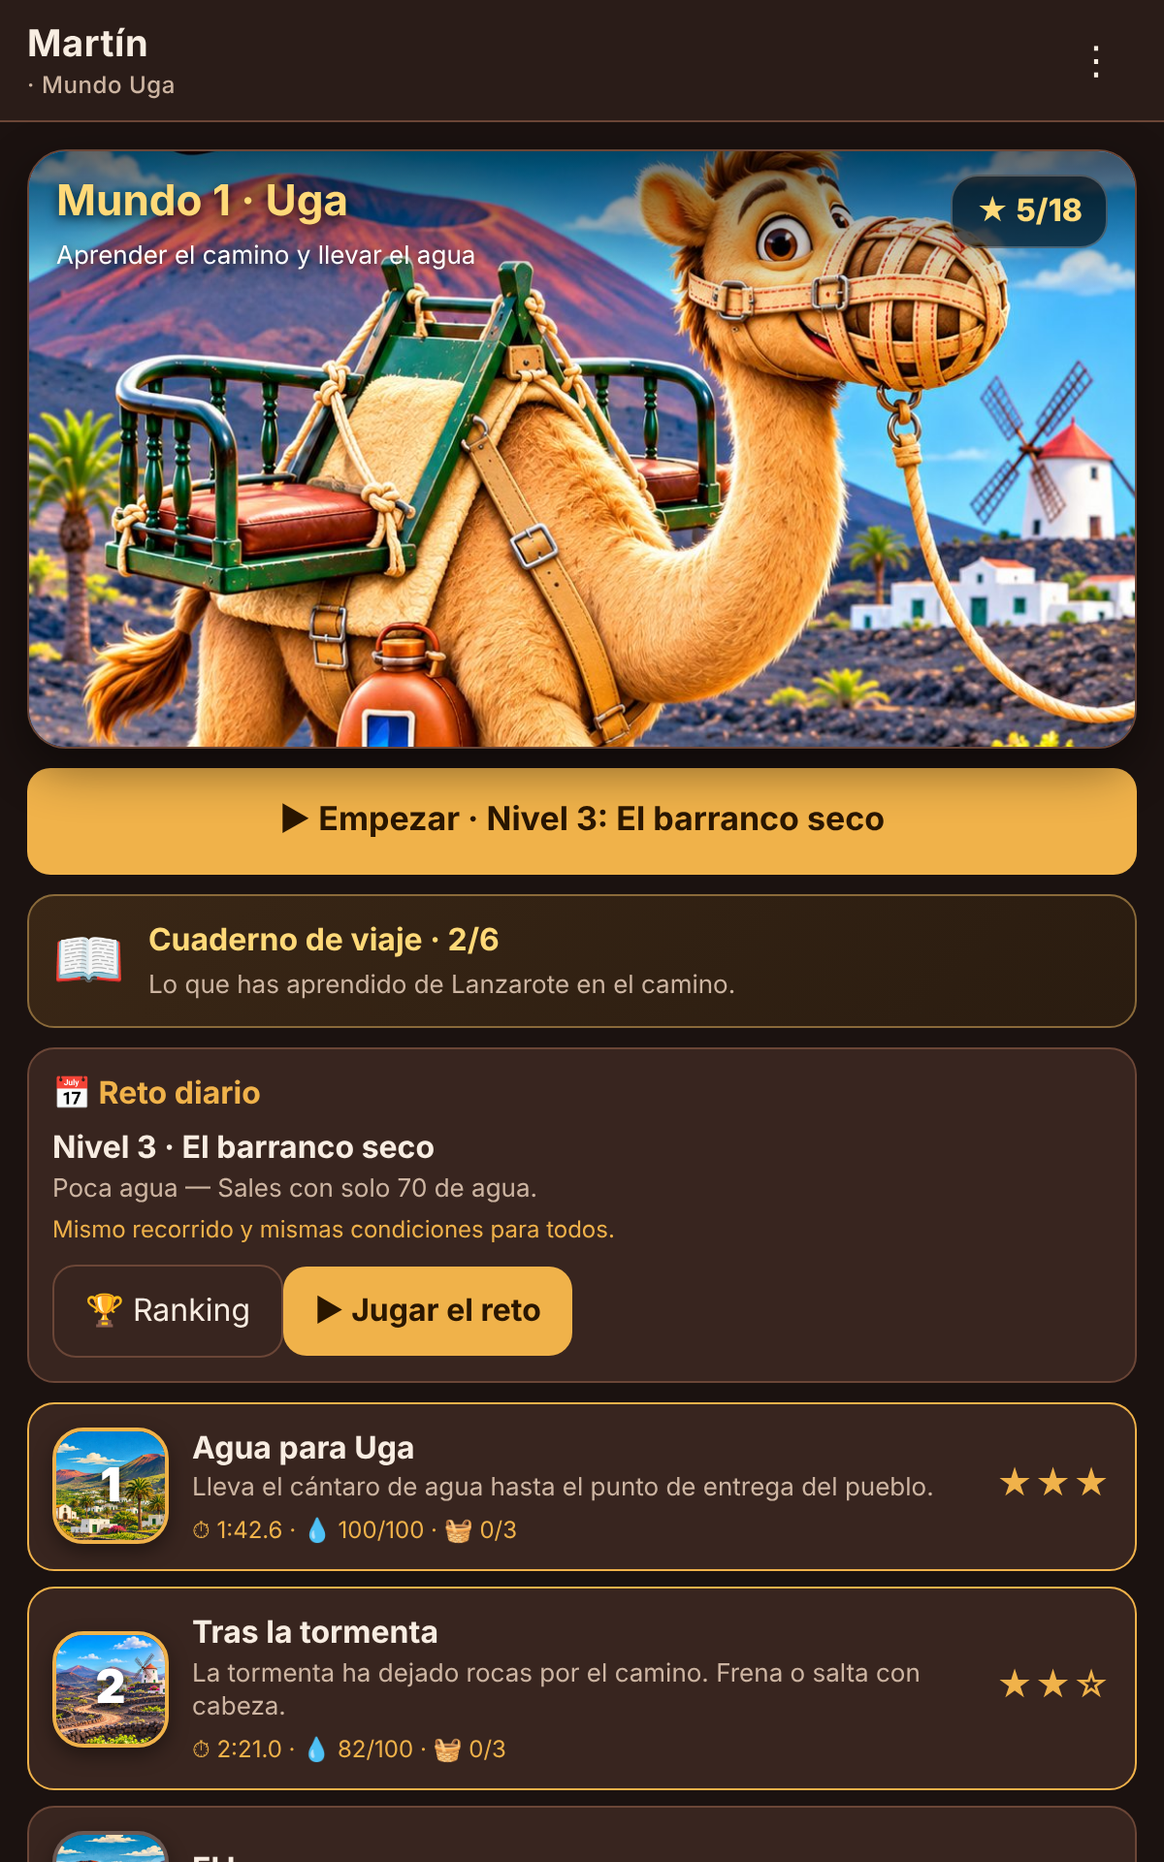
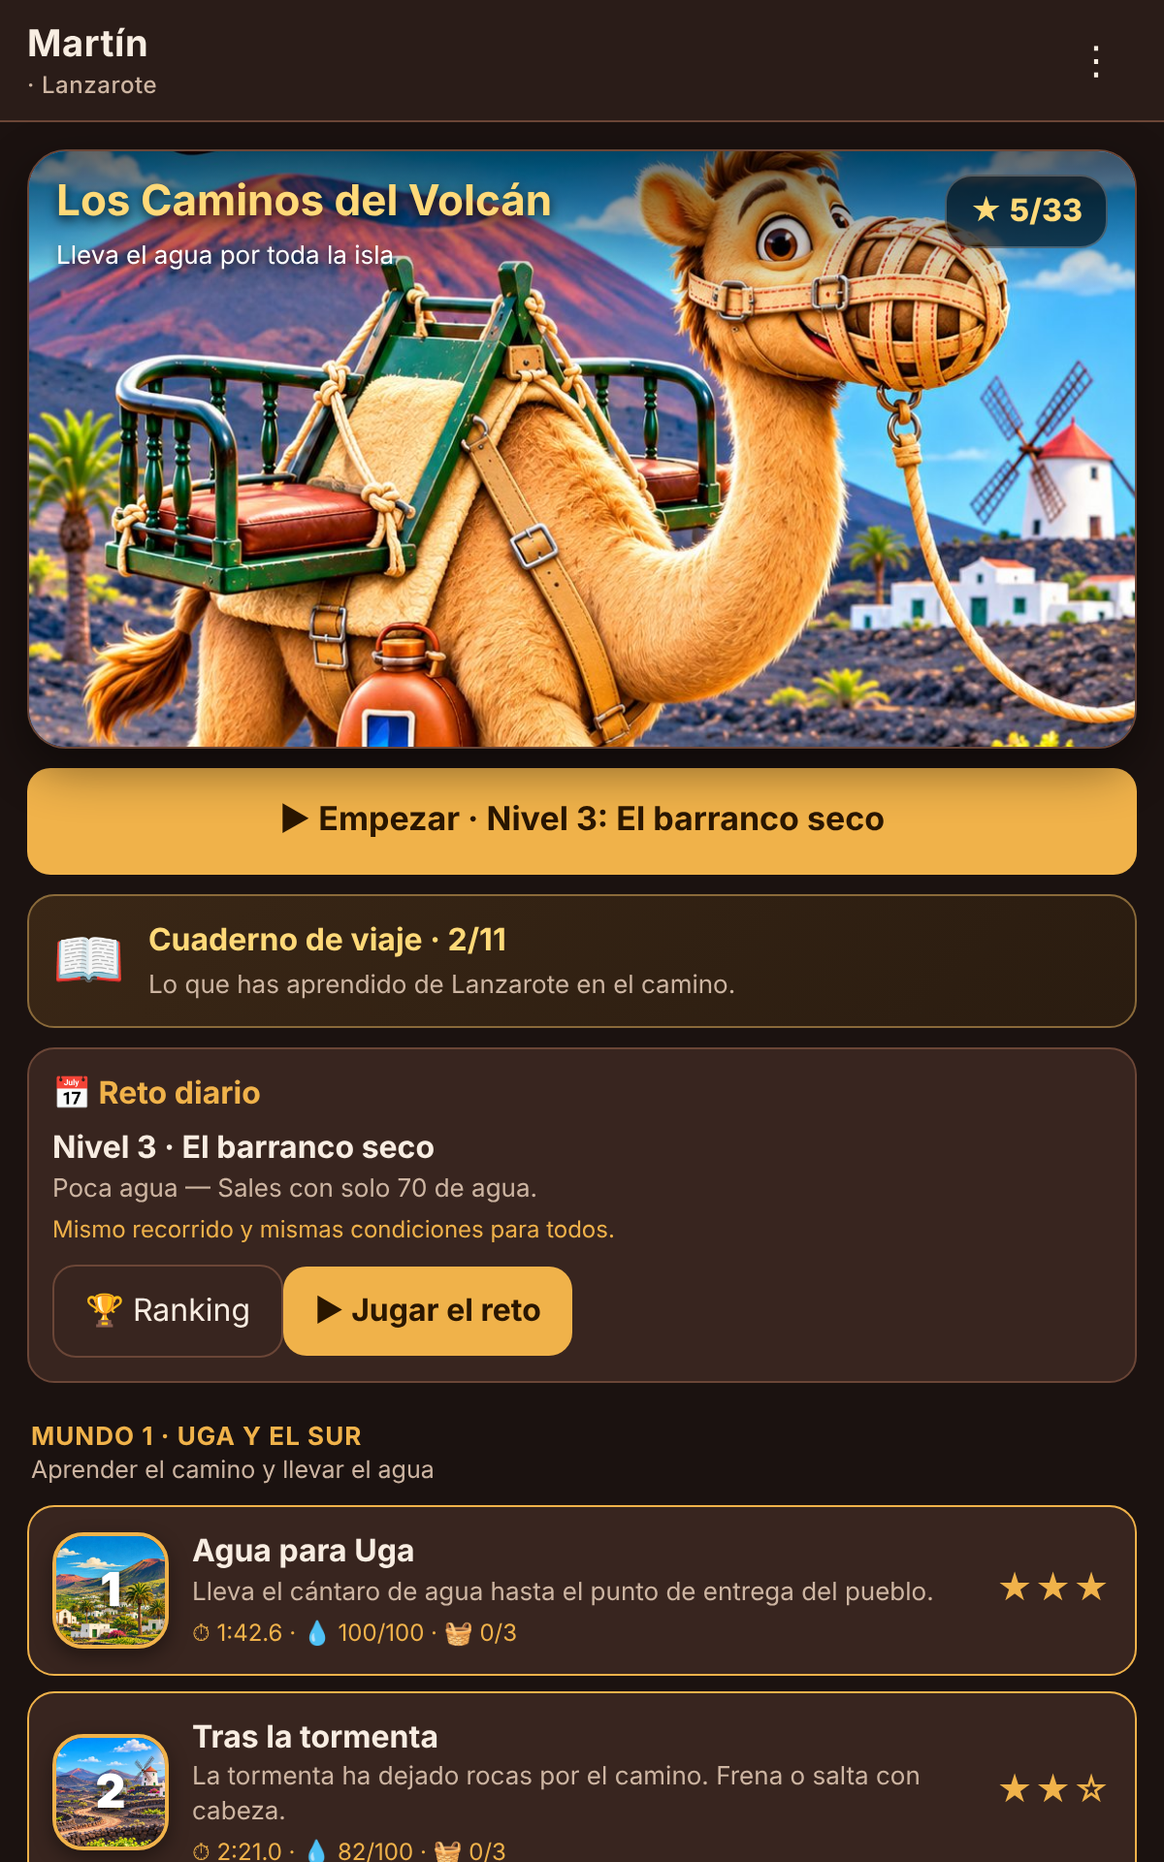
Mundo 2 «La costa y el norte»: 5 niveles nuevos en El Golfo, las Salinas de Janubio, Famara, Haría y el Mirador del Río
- En Janubio la sal resbala: Martín tarda en arrancar y patina al frenar.
- En Haría puedes ir por las huertas o saltando por las copas de las palmeras.
- Cinco fichas nuevas en el Cuaderno de viaje, con sus ilustraciones.
- Versión 2.3.0.

Claude-Session: https://claude.ai/code/session_01H2Jf8v1MHtV6zTpVoU4WWj

diff --git a/docs/app/lugares.js b/docs/app/lugares.js
@@ -88,7 +88,7 @@
       ]
     },
     {
-      lugar: 'El Golfo', titulo: 'La laguna verde', img: 'paisaje-costa.jpg', pos: '40% 45%',
+      lugar: 'El Golfo', titulo: 'La laguna verde', img: 'paisaje-golfo.jpg', pos: '35% 60%',
       texto: [
         'Junto al pueblo pesquero de El Golfo, en la costa oeste de Yaiza, el mar se ha comido la mitad de un antiguo cono volcánico. En la mitad que queda se ve, como en un corte, cómo se apilaron las capas de ceniza y roca: rojas, ocres y negras.',
         'Dentro del cráter hay una laguna de agua de mar, el Charco de los Clicos o Charco Verde. Una franja de arena negra la separa del océano. Su color verde viene de algas microscópicas y cambia de tono según la luz.',
@@ -102,7 +102,7 @@
       ]
     },
     {
-      lugar: 'Salinas de Janubio', titulo: 'El jardín de sal', img: 'paisaje-costa.jpg', pos: '70% 45%',
+      lugar: 'Salinas de Janubio', titulo: 'El jardín de sal', img: 'paisaje-janubio.jpg', pos: '45% 70%',
       texto: [
         'En la costa de Yaiza, junto a la playa de Janubio, se extienden las salinas más grandes de Canarias: unas 168 hectáreas de cuadrículas blancas sobre tierra volcánica. Se empezaron a construir en 1895 y hoy las sigue trabajando la misma familia.',
         'El agua de mar llega desde la laguna natural de Janubio. Antes la subían molinos de viento. El sol y el viento la evaporan poco a poco en los cocederos hasta que solo queda la sal.',
@@ -116,7 +116,7 @@
       ]
     },
     {
-      lugar: 'Famara', titulo: 'El gran risco', img: 'paisaje.jpg', pos: '30% 40%',
+      lugar: 'Famara', titulo: 'El gran risco', img: 'paisaje-famara.jpg', pos: '40% 40%',
       texto: [
         'El Risco de Famara es un enorme acantilado que recorre durante unos veinte kilómetros el norte de Lanzarote. Por el lado del mar, la pared cae casi en vertical entre 400 y 600 metros.',
         'Es la parte más antigua de la isla, millones de años anterior a los volcanes de Timanfaya. Su punto más alto, las Peñas del Chache, con unos 671 metros, es también el techo de Lanzarote.',
@@ -130,7 +130,7 @@
       ]
     },
     {
-      lugar: 'Haría', titulo: 'El valle de las mil palmeras', img: 'paisaje-uga.jpg', pos: '30% 40%',
+      lugar: 'Haría', titulo: 'El valle de las mil palmeras', img: 'paisaje-haria.jpg', pos: '60% 50%',
       texto: [
         'Haría es un pueblo de casas blancas en un valle del norte de Lanzarote. Lo llaman «el valle de las mil palmeras» por su gran palmeral de palmeras canarias, entre huertas, tuneras y otros cactus.',
         'Desde el Mirador de los Helechos se contempla el palmeral de Haría desde lo alto.',
@@ -144,7 +144,7 @@
       ]
     },
     {
-      lugar: 'Mirador del Río', titulo: 'El balcón sobre La Graciosa', img: 'paisaje-costa.jpg', pos: '80% 35%',
+      lugar: 'Mirador del Río', titulo: 'El balcón sobre La Graciosa', img: 'paisaje-mirador.jpg', pos: '70% 40%',
       texto: [
         'En lo alto del Risco de Famara, a unos 475 metros sobre el mar, César Manrique construyó entre 1971 y 1973 el Mirador del Río, con Eduardo Cáceres y Jesús Soto.',
         'El edificio está casi escondido: lo cubre una piel de piedra volcánica para que se confunda con el risco. Por dentro, grandes ventanales miran al estrecho de El Río, el brazo de mar que separa Lanzarote de La Graciosa.',

diff --git a/www/lugares.js b/www/lugares.js
@@ -88,7 +88,7 @@
       ]
     },
     {
-      lugar: 'El Golfo', titulo: 'La laguna verde', img: 'paisaje-costa.jpg', pos: '40% 45%',
+      lugar: 'El Golfo', titulo: 'La laguna verde', img: 'paisaje-golfo.jpg', pos: '35% 60%',
       texto: [
         'Junto al pueblo pesquero de El Golfo, en la costa oeste de Yaiza, el mar se ha comido la mitad de un antiguo cono volcánico. En la mitad que queda se ve, como en un corte, cómo se apilaron las capas de ceniza y roca: rojas, ocres y negras.',
         'Dentro del cráter hay una laguna de agua de mar, el Charco de los Clicos o Charco Verde. Una franja de arena negra la separa del océano. Su color verde viene de algas microscópicas y cambia de tono según la luz.',
@@ -102,7 +102,7 @@
       ]
     },
     {
-      lugar: 'Salinas de Janubio', titulo: 'El jardín de sal', img: 'paisaje-costa.jpg', pos: '70% 45%',
+      lugar: 'Salinas de Janubio', titulo: 'El jardín de sal', img: 'paisaje-janubio.jpg', pos: '45% 70%',
       texto: [
         'En la costa de Yaiza, junto a la playa de Janubio, se extienden las salinas más grandes de Canarias: unas 168 hectáreas de cuadrículas blancas sobre tierra volcánica. Se empezaron a construir en 1895 y hoy las sigue trabajando la misma familia.',
         'El agua de mar llega desde la laguna natural de Janubio. Antes la subían molinos de viento. El sol y el viento la evaporan poco a poco en los cocederos hasta que solo queda la sal.',
@@ -116,7 +116,7 @@
       ]
     },
     {
-      lugar: 'Famara', titulo: 'El gran risco', img: 'paisaje.jpg', pos: '30% 40%',
+      lugar: 'Famara', titulo: 'El gran risco', img: 'paisaje-famara.jpg', pos: '40% 40%',
       texto: [
         'El Risco de Famara es un enorme acantilado que recorre durante unos veinte kilómetros el norte de Lanzarote. Por el lado del mar, la pared cae casi en vertical entre 400 y 600 metros.',
         'Es la parte más antigua de la isla, millones de años anterior a los volcanes de Timanfaya. Su punto más alto, las Peñas del Chache, con unos 671 metros, es también el techo de Lanzarote.',
@@ -130,7 +130,7 @@
       ]
     },
     {
-      lugar: 'Haría', titulo: 'El valle de las mil palmeras', img: 'paisaje-uga.jpg', pos: '30% 40%',
+      lugar: 'Haría', titulo: 'El valle de las mil palmeras', img: 'paisaje-haria.jpg', pos: '60% 50%',
       texto: [
         'Haría es un pueblo de casas blancas en un valle del norte de Lanzarote. Lo llaman «el valle de las mil palmeras» por su gran palmeral de palmeras canarias, entre huertas, tuneras y otros cactus.',
         'Desde el Mirador de los Helechos se contempla el palmeral de Haría desde lo alto.',
@@ -144,7 +144,7 @@
       ]
     },
     {
-      lugar: 'Mirador del Río', titulo: 'El balcón sobre La Graciosa', img: 'paisaje-costa.jpg', pos: '80% 35%',
+      lugar: 'Mirador del Río', titulo: 'El balcón sobre La Graciosa', img: 'paisaje-mirador.jpg', pos: '70% 40%',
       texto: [
         'En lo alto del Risco de Famara, a unos 475 metros sobre el mar, César Manrique construyó entre 1971 y 1973 el Mirador del Río, con Eduardo Cáceres y Jesús Soto.',
         'El edificio está casi escondido: lo cubre una piel de piedra volcánica para que se confunda con el risco. Por dentro, grandes ventanales miran al estrecho de El Río, el brazo de mar que separa Lanzarote de La Graciosa.',

diff --git a/docs/app/sw.js b/docs/app/sw.js
@@ -1,8 +1,8 @@
 // Service worker: deja la versión web disponible sin conexión.
 // En la app Android no hace falta (los archivos ya van dentro del APK) y podría servir
 // una versión antigua tras actualizar, así que allí se da de baja solo.
-const CACHE = 'martin-v2.2.1';
-const ASSETS = ['./', 'index.html', 'martin.js', 'niveles.js', 'juego.js', 'dibujo.js', 'lugares.js', 'camello.png', 'portada.jpg', 'paisaje.jpg', 'flora.png', 'suelo-tierra.jpg', 'suelo-lava.jpg', 'paisaje-uga.jpg', 'paisaje-timanfaya.jpg', 'paisaje-geria.jpg', 'paisaje-costa.jpg', 'paisaje-ocaso.jpg', 'manifest.webmanifest', 'icons/icon-192.png', 'icons/icon-512.png', 'icons/icon-maskable-512.png', 'icons/apple-touch-icon.png', 'i18n-en.js', 'i18n-fr.js', 'i18n-de.js', 'i18n-it.js', 'idioma.js', 'masjuegos.js', 'audio-suave.js', 'turno.js', 'contador.js', 'invitacion.js', 'publicas.js', 'juegos/ajedrez.png', 'juegos/chinchon.png', 'juegos/pumba.png', 'juegos/damas.png', 'juegos/parchis.png', 'juegos/poker.png', 'juegos/uno.png', 'juegos/martin.png'];
+const CACHE = 'martin-v2.3.0';
+const ASSETS = ['./', 'index.html', 'martin.js', 'niveles.js', 'juego.js', 'dibujo.js', 'lugares.js', 'camello.png', 'portada.jpg', 'paisaje.jpg', 'flora.png', 'suelo-tierra.jpg', 'suelo-lava.jpg', 'paisaje-uga.jpg', 'paisaje-timanfaya.jpg', 'paisaje-geria.jpg', 'paisaje-costa.jpg', 'paisaje-ocaso.jpg', 'paisaje-golfo.jpg', 'paisaje-janubio.jpg', 'paisaje-famara.jpg', 'paisaje-haria.jpg', 'paisaje-mirador.jpg', 'manifest.webmanifest', 'icons/icon-192.png', 'icons/icon-512.png', 'icons/icon-maskable-512.png', 'icons/apple-touch-icon.png', 'i18n-en.js', 'i18n-fr.js', 'i18n-de.js', 'i18n-it.js', 'idioma.js', 'masjuegos.js', 'audio-suave.js', 'turno.js', 'contador.js', 'invitacion.js', 'publicas.js', 'juegos/ajedrez.png', 'juegos/chinchon.png', 'juegos/pumba.png', 'juegos/damas.png', 'juegos/parchis.png', 'juegos/poker.png', 'juegos/uno.png', 'juegos/martin.png'];
 const NATIVE = self.location.hostname === 'localhost' && self.location.protocol === 'https:';
 
 self.addEventListener('install', e => {

diff --git a/www/sw.js b/www/sw.js
@@ -1,8 +1,8 @@
 // Service worker: deja la versión web disponible sin conexión.
 // En la app Android no hace falta (los archivos ya van dentro del APK) y podría servir
 // una versión antigua tras actualizar, así que allí se da de baja solo.
-const CACHE = 'martin-v2.2.1';
-const ASSETS = ['./', 'index.html', 'martin.js', 'niveles.js', 'juego.js', 'dibujo.js', 'lugares.js', 'camello.png', 'portada.jpg', 'paisaje.jpg', 'flora.png', 'suelo-tierra.jpg', 'suelo-lava.jpg', 'paisaje-uga.jpg', 'paisaje-timanfaya.jpg', 'paisaje-geria.jpg', 'paisaje-costa.jpg', 'paisaje-ocaso.jpg', 'manifest.webmanifest', 'icons/icon-192.png', 'icons/icon-512.png', 'icons/icon-maskable-512.png', 'icons/apple-touch-icon.png', 'i18n-en.js', 'i18n-fr.js', 'i18n-de.js', 'i18n-it.js', 'idioma.js', 'masjuegos.js', 'audio-suave.js', 'turno.js', 'contador.js', 'invitacion.js', 'publicas.js', 'juegos/ajedrez.png', 'juegos/chinchon.png', 'juegos/pumba.png', 'juegos/damas.png', 'juegos/parchis.png', 'juegos/poker.png', 'juegos/uno.png', 'juegos/martin.png'];
+const CACHE = 'martin-v2.3.0';
+const ASSETS = ['./', 'index.html', 'martin.js', 'niveles.js', 'juego.js', 'dibujo.js', 'lugares.js', 'camello.png', 'portada.jpg', 'paisaje.jpg', 'flora.png', 'suelo-tierra.jpg', 'suelo-lava.jpg', 'paisaje-uga.jpg', 'paisaje-timanfaya.jpg', 'paisaje-geria.jpg', 'paisaje-costa.jpg', 'paisaje-ocaso.jpg', 'paisaje-golfo.jpg', 'paisaje-janubio.jpg', 'paisaje-famara.jpg', 'paisaje-haria.jpg', 'paisaje-mirador.jpg', 'manifest.webmanifest', 'icons/icon-192.png', 'icons/icon-512.png', 'icons/icon-maskable-512.png', 'icons/apple-touch-icon.png', 'i18n-en.js', 'i18n-fr.js', 'i18n-de.js', 'i18n-it.js', 'idioma.js', 'masjuegos.js', 'audio-suave.js', 'turno.js', 'contador.js', 'invitacion.js', 'publicas.js', 'juegos/ajedrez.png', 'juegos/chinchon.png', 'juegos/pumba.png', 'juegos/damas.png', 'juegos/parchis.png', 'juegos/poker.png', 'juegos/uno.png', 'juegos/martin.png'];
 const NATIVE = self.location.hostname === 'localhost' && self.location.protocol === 'https:';
 
 self.addEventListener('install', e => {

diff --git a/docs/index.html b/docs/index.html
@@ -4,7 +4,7 @@
 <meta charset="utf-8">
 <meta name="viewport" content="width=device-width,initial-scale=1">
 <title>Martín: Los Caminos del Volcán — descarga la app</title>
-<meta name="description" content="Martín, un camello canario, lleva el agua por los caminos de Lanzarote: 6 niveles de plataformas y un reto diario. Gratis y sin anuncios.">
+<meta name="description" content="Martín, un camello canario, lleva el agua por los caminos de Lanzarote: 11 niveles de plataformas y un reto diario. Gratis y sin anuncios.">
 <meta property="og:title" content="Martín: Los Caminos del Volcán">
 <meta property="og:description" content="Un camello canario, un cántaro de agua y un reto diario para todos. Gratis y sin anuncios.">
 <meta property="og:image" content="https://csuarezsm.github.io/Martin/icon.png">
@@ -42,7 +42,7 @@
   <ul>
     <li>🐪 Martín es un camello canario joven de Uga. Tras la tormenta, lleva el agua por caminos de lava, rocas y huecos hasta el punto de entrega.</li>
     <li>💧 Reglas claras: el agua baja solo por caídas fuertes, golpes contra rocas y huecos; siempre se ve la causa.</li>
-    <li>🌋 Mundo de Uga: 6 niveles, con tres estrellas cada uno y, a veces, dos caminos (uno rápido y arriesgado, otro lento y seguro).</li>
+    <li>🌋 Dos mundos y 11 niveles: Uga y el sur, y la costa y el norte (El Golfo, Janubio, Famara, Haría y el Mirador del Río). Tres estrellas en cada uno y, a veces, dos caminos.</li>
     <li>📅 Reto diario: el mismo nivel y las mismas condiciones para todos, con ranking. El servidor repite tu partida para comprobar el tiempo.</li>
     <li>👆 Botones grandes (también para zurdos), salto más alto si lo mantienes, pausa y reintento al instante.</li>
     <li>Funciona sin conexión y se actualiza sola. Sin anuncios y sin cuentas.</li>

diff --git a/docs/app/dibujo.js b/docs/app/dibujo.js
@@ -477,12 +477,12 @@
     { src: 'paisaje-geria.jpg', ini: 0.34, cielo: ['#1a96b8', '#25aac6'] },
     { src: 'paisaje-costa.jpg', cielo: ['#1688d0', '#209be4'] },
     { src: 'paisaje-ocaso.jpg', ini: 0.17, cielo: ['#41629c', '#6b8ccc'] },
-    // Mundo 2: fondos provisionales hasta tener las ilustraciones de cada lugar
-    { src: 'paisaje-costa.jpg', cielo: ['#1688d0', '#209be4'] },
-    { src: 'paisaje-costa.jpg', cielo: ['#1688d0', '#209be4'] },
-    { src: 'paisaje.jpg', ini: 0.24, fin: 0.9, cielo: ['#0070e0', '#028dfc'] },
-    { src: 'paisaje-uga.jpg', ini: 0.36, fin: 0.83, cielo: ['#0070c8', '#0281d4'] },
-    { src: 'paisaje-costa.jpg', cielo: ['#1688d0', '#209be4'] }],
+    // Mundo 2: El Golfo, Janubio, Famara, Haría y el Mirador del Río
+    { src: 'paisaje-golfo.jpg', ini: 0.12, cielo: ['#007cf0', '#008bfd'] },
+    { src: 'paisaje-janubio.jpg', ini: 0.14, cielo: ['#007cf0', '#0089fe'] },
+    { src: 'paisaje-famara.jpg', cielo: ['#0070e8', '#007ffb'] },
+    { src: 'paisaje-haria.jpg', ini: 0.36, fin: 0.72, cielo: ['#0070e8', '#0080fd'] },
+    { src: 'paisaje-mirador.jpg', ini: 0.16, cielo: ['#006ae8', '#0078fb'] }],
     porTema: [0, 1, 2, 3, 4, 5, 6, 7, 8, 9, 10] };
   function fotoTema(tema) {
     const f = PAI.fotos[PAI.porTema[tema] || 0];

diff --git a/www/dibujo.js b/www/dibujo.js
@@ -477,12 +477,12 @@
     { src: 'paisaje-geria.jpg', ini: 0.34, cielo: ['#1a96b8', '#25aac6'] },
     { src: 'paisaje-costa.jpg', cielo: ['#1688d0', '#209be4'] },
     { src: 'paisaje-ocaso.jpg', ini: 0.17, cielo: ['#41629c', '#6b8ccc'] },
-    // Mundo 2: fondos provisionales hasta tener las ilustraciones de cada lugar
-    { src: 'paisaje-costa.jpg', cielo: ['#1688d0', '#209be4'] },
-    { src: 'paisaje-costa.jpg', cielo: ['#1688d0', '#209be4'] },
-    { src: 'paisaje.jpg', ini: 0.24, fin: 0.9, cielo: ['#0070e0', '#028dfc'] },
-    { src: 'paisaje-uga.jpg', ini: 0.36, fin: 0.83, cielo: ['#0070c8', '#0281d4'] },
-    { src: 'paisaje-costa.jpg', cielo: ['#1688d0', '#209be4'] }],
+    // Mundo 2: El Golfo, Janubio, Famara, Haría y el Mirador del Río
+    { src: 'paisaje-golfo.jpg', ini: 0.12, cielo: ['#007cf0', '#008bfd'] },
+    { src: 'paisaje-janubio.jpg', ini: 0.14, cielo: ['#007cf0', '#0089fe'] },
+    { src: 'paisaje-famara.jpg', cielo: ['#0070e8', '#007ffb'] },
+    { src: 'paisaje-haria.jpg', ini: 0.36, fin: 0.72, cielo: ['#0070e8', '#0080fd'] },
+    { src: 'paisaje-mirador.jpg', ini: 0.16, cielo: ['#006ae8', '#0078fb'] }],
     porTema: [0, 1, 2, 3, 4, 5, 6, 7, 8, 9, 10] };
   function fotoTema(tema) {
     const f = PAI.fotos[PAI.porTema[tema] || 0];

diff --git a/docs/app/index.html b/docs/app/index.html
@@ -434,7 +434,7 @@ function openThemes() {
   AvisoTurno.enlazar();
 }
 
-const APP_VERSION = '2.2.1';
+const APP_VERSION = '2.3.0';
 const REPO = 'csuarezsm/Martin';
 const MAX_ARCHIVE = 500;
 const uid = () => Math.random().toString(36).slice(2, 10);

diff --git a/www/index.html b/www/index.html
@@ -434,7 +434,7 @@ function openThemes() {
   AvisoTurno.enlazar();
 }
 
-const APP_VERSION = '2.2.1';
+const APP_VERSION = '2.3.0';
 const REPO = 'csuarezsm/Martin';
 const MAX_ARCHIVE = 500;
 const uid = () => Math.random().toString(36).slice(2, 10);

diff --git a/README.md b/README.md
@@ -1,10 +1,12 @@
 # Martín: Los Caminos del Volcán
 
-Un camello canario joven de Uga lleva el agua por los caminos que dejó la tormenta: lava, rocas, huecos y bajadas. **6 niveles de plataformas** con tres estrellas cada uno, a veces con dos caminos (uno rápido y arriesgado, otro lento y seguro), y un **reto diario** igual para todos con ranking.
+Un camello canario joven de Uga lleva el agua por los caminos que dejó la tormenta: lava, rocas, huecos y bajadas. **11 niveles de plataformas en dos mundos** con tres estrellas cada uno, a veces con dos caminos (uno rápido y arriesgado, otro lento y seguro), y un **reto diario** igual para todos con ranking.
 Para Android e iPhone. Gratis, sin anuncios y sin cuentas. App Capacitor + web (`www/`). Todo se guarda en el móvil; solo el reto diario usa el servidor de juegos (nombre y pulsaciones, para comprobar el tiempo).
-Paquete: `com.itcanarias.martin` · versión 2.2.1
+Paquete: `com.itcanarias.martin` · versión 2.3.0
 
-Novedades de la 2.2: **¡la lava te persigue en Timanfaya!**, **aljibes** que reponen agua, **3 frutos escondidos** por nivel (tunos, higos y uvas malvasía) y el **fantasma** de tu mejor carrera para competir contra ti mismo.
+Novedades de la 2.3: **Mundo 2 · La costa y el norte**, con 5 niveles nuevos en El Golfo, las Salinas de Janubio (¡la sal resbala!), Famara, Haría (por las copas de las palmeras) y el Mirador del Río, y sus fichas en el Cuaderno de viaje.
+
+De la 2.2: **¡la lava te persigue en Timanfaya!**, **aljibes** que reponen agua, **3 frutos escondidos** por nivel (tunos, higos y uvas malvasía) y el **fantasma** de tu mejor carrera para competir contra ti mismo.
 
 De la 2.1: **peligros vivos** (piedras que ruedan, géiseres de vapor, rachas de viento, olas y suelo que se hunde), sacudidas, polvo y sonidos nuevos.
 
@@ -19,7 +21,7 @@ Hecha con la misma plantilla que Ajedrez, Damas, Chinchón, Pumba, Parchís, Pó
 ## Qué hace
 
 - **Plataformas con reglas claras**: un salto (más alto si lo mantienes), coyote time y jump buffer; el agua baja solo por caídas fuertes, golpes contra rocas y huecos, y siempre se ve la causa.
-- **6 niveles** (Agua para Uga, Tras la tormenta, El barranco seco, Bajada a la hoya, Dos caminos, El gran encargo), con punto de control, pistas por tramos, estrellas y récords de tiempo y agua.
+- **11 niveles**: Mundo 1 · Uga y el sur (Agua para Uga, Tras la tormenta, El barranco seco, Bajada a la hoya, Dos caminos, El gran encargo) y Mundo 2 · La costa y el norte (La laguna verde, Las salinas, Bajo el risco, Las mil palmeras, Lo alto del risco), con punto de control, pistas por tramos, estrellas y récords de tiempo y agua.
 - **Reto diario**: mismo nivel y condiciones para todos (agua normal, cántaro frágil o poca agua); el servidor repite tu partida con tus pulsaciones para comprobar el tiempo (`juegos-servidor`, `src/reto.js`).
 - Botones grandes con multitáctil, mano invertida, teclado, pausa automática al perder el foco, tamaño de letra y colores a tu gusto.
 - Español, inglés, francés, alemán e italiano. Copia de seguridad automática, exportar e importar.
@@ -34,7 +36,7 @@ Hecha con la misma plantilla que Ajedrez, Damas, Chinchón, Pumba, Parchís, Pó
 
 ## Pruebas
 
-`npm test` = `tests/motor.test.mjs` (casos T01–T28 del dossier + los 6 niveles con el robot) y `tests/app.test.mjs` (Playwright: móvil, horizontal, tablet, multitáctil, pausa, los 6 niveles de principio a fin, copias, idiomas, JSON inválido y reto diario contra una copia local del servidor).
+`npm test` = `tests/motor.test.mjs` (casos T01–T28 del dossier + los 11 niveles con el robot) y `tests/app.test.mjs` (Playwright: móvil, horizontal, tablet, multitáctil, pausa, los 6 niveles de principio a fin, copias, idiomas, JSON inválido y reto diario contra una copia local del servidor).
 
 ## Publicar una versión
 

diff --git a/play-store/FICHA-GOOGLE-PLAY.md b/play-store/FICHA-GOOGLE-PLAY.md
@@ -24,7 +24,7 @@ Orden recomendado: 1-partida, 2-camino, 3-mapa, 4-final, 5-reto.
 Martín: Los Caminos del Volcán
 
 **Descripción breve** (máx. 80)
-Un camello canario lleva el agua por los caminos de Lanzarote. 6 niveles y reto diario.
+Un camello canario lleva el agua por los caminos de Lanzarote. 11 niveles y reto diario.
 
 **Descripción completa**
 
